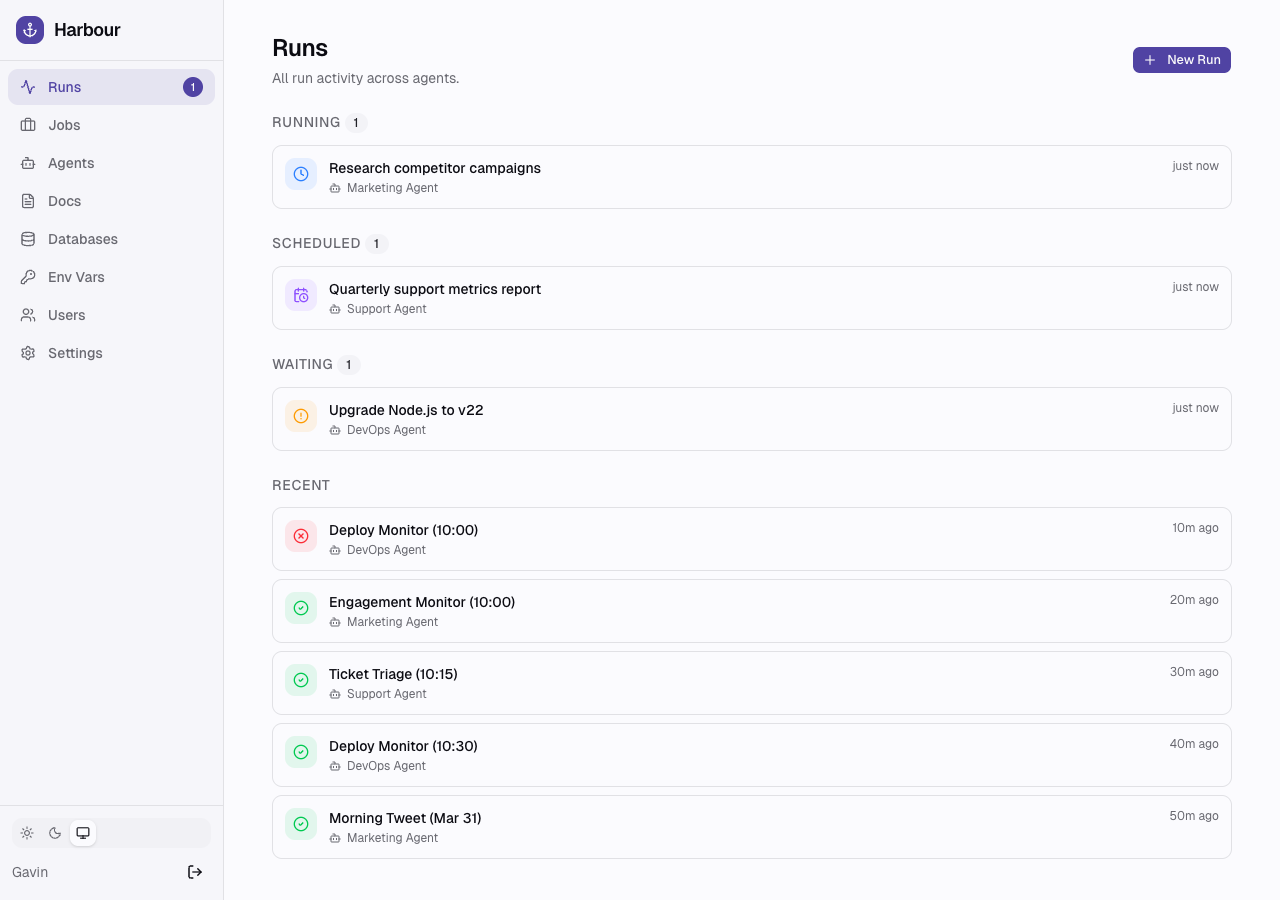
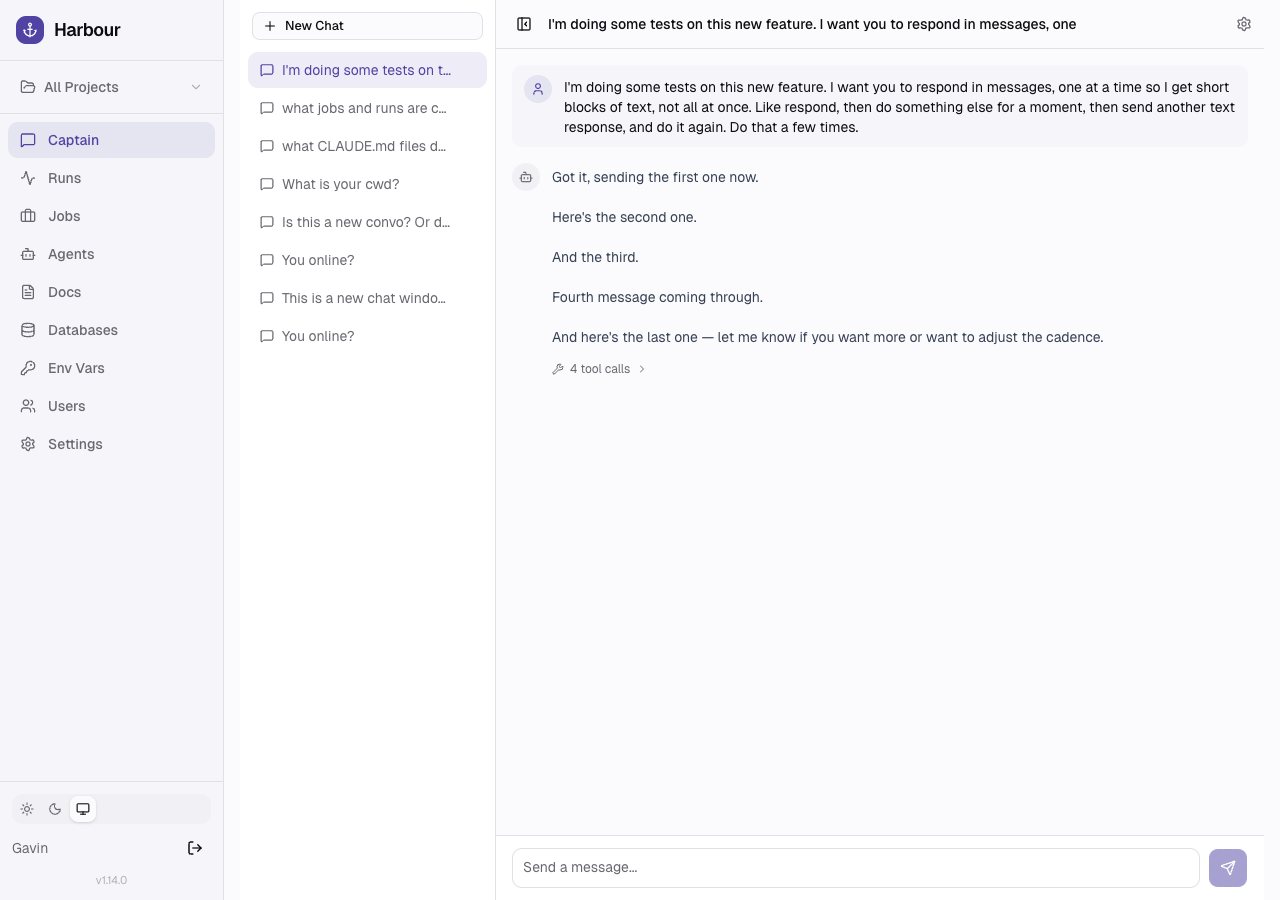
docs: add consulting note and Captain section to README
Lead README with a short consulting outreach line and document the new
Captain feature. Replace the dashboard screenshot with the Captain page
to showcase the new in-browser CLI chat.

diff --git a/README.md b/README.md
@@ -4,6 +4,8 @@ A control plane for AI agents doing ongoing work.
 
 ![Harbour Dashboard](public/screenshot.png)
 
+> I do AI consulting for agencies and busy professionals — helping teams get real, ongoing work out of agents without it becoming a second full-time job. Always happy to hop on a call and figure out how I can be helpful: [[email redacted]](mailto:[email redacted]).
+
 ## Why
 
 AI agents can handle real, ongoing responsibilities — marketing, support, dev. They post content, triage tickets, manage campaigns, submit PRs. Most of this runs on recurring schedules.
@@ -234,15 +236,25 @@ Projects are an optional way to organize your work. They're a view layer — a b
 - Manage projects (rename, delete) in Settings while viewing a project
 - Deleting a project only removes the grouping — nothing else is affected
 
+## Captain
+
+**Captain** is an in-browser chat with a CLI tool (Claude Code, Codex, or Gemini CLI) that runs server-side and streams output back over SSE — your operator's console for the harbour itself. Ask it to summarize what ran today, query the database, debug a stuck job, or set up a new agent without leaving the dashboard.
+
+- Multi-conversation with session continuity. Stop a response mid-stream; old conversations stay resumable.
+- Tool calls render as collapsible blocks alongside the assistant's text so you can see what was actually run.
+- Workspace at `~/.harbour/captain/` is auto-provisioned on first use with a `CLAUDE.md` describing Harbour's schema, API endpoints, and key paths. `AGENTS.md` and `GEMINI.md` symlink to the same file so all three CLIs share one knowledge base — and you can customize it (Captain never overwrites).
+- Pick CLI tool, model, thinking/effort level, and override the working directory in **Settings**.
+
 ## Dashboard
 
+- **Captain** — in-browser chat with a local CLI tool (see above) for managing the harbour.
 - **Runs** — running, scheduled, waiting, pending, and recent runs. Create one-off runs or recurring jobs from a unified dialog.
 - **Jobs** — split into Agent Jobs and Workflow Jobs. Shows run/skip counts, schedules, and linked docs/env vars.
 - **Agents** — list of agents with jobs, activity, and poll status. Harbour agents show CLI tool, model, and thinking level.
 - **Docs** — shared knowledge base, editable by humans and agents. Pin docs to auto-attach to all new jobs.
 - **Databases** — read-only view of agent-managed SQLite tables.
 - **Env Vars** — encrypted variables (API keys, tokens) injected at runtime. Pin to auto-attach to all new jobs.
-- **Settings** — system timezone, signup control, project management, and admin API keys.
+- **Settings** — system timezone, signup control, project management, Captain configuration, and admin API keys.
 
 Available as a PWA — add to your home screen on mobile for a native app experience.
 